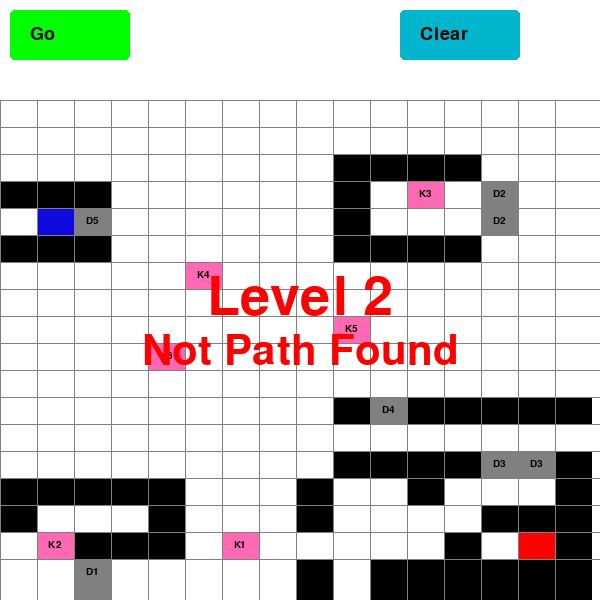
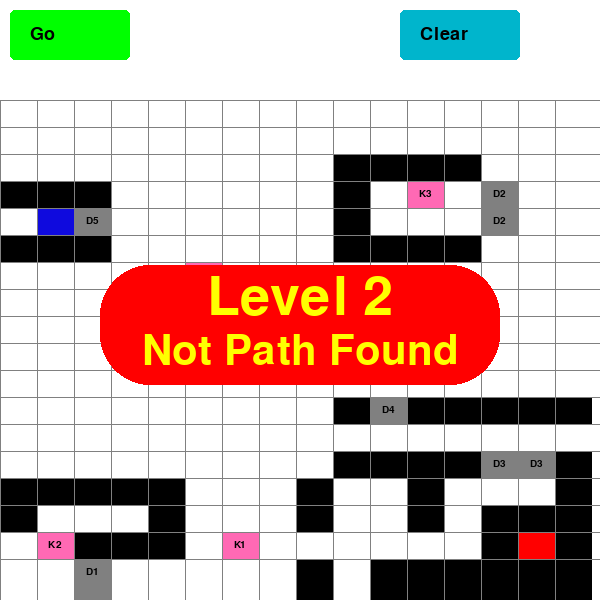
draw complete

Changed region(s): [[0.15, 0.42, 0.84, 0.66], [0.66, 0.84, 0.87, 0.93]]

diff --git a/level3.py b/level3.py
@@ -20,12 +20,16 @@ IRISBLUE = (0, 181, 204)
 PINK = (255, 105, 180)
 LIGHTGREEN = (208,242,136)
 LIGHTPUR = (255,245,194)
+ERROR_TEXT = (161,3,76)
+ERROR_AREA_COLOR = (120, 124, 198)
 
 window = pygame.display.set_mode((WIDTH, HEIGHT))
 pygame.display.set_caption("Move your step")
 font = pygame.font.Font('freesansbold.ttf', 18)
 tile_font = pygame.font.Font('freesansbold.ttf', 10)
 fill_area_rect = pygame.Rect(0, 100, WIDTH, HEIGHT-100)
+Error_area = pygame.Rect(WIDTH // 4-50, HEIGHT//2 -35, 400, 120)
+
 class Button:
     def __init__(self, x, y, text, click):
         self.x = x
@@ -258,6 +262,41 @@ def read_grid_from_file(file):
                 
     return row, column, max_floor, grid
 
+# export to file png (heatmap)  
+def save_heatmap_image(file_path, grid, floor):
+    colors = [[[node.color for node in row] for row in grid[i]] for i in range(floor)]
+    plt.imshow(colors, cmap='viridis', interpolation='nearest')
+    plt.colorbar()
+    plt.savefig(file_path)
+    plt.show()
+
+#export screen image 
+def export_screen(grid,row,col,width,height,floor,file_num):
+    for i in range(floor):
+        capture_surface = pygame.Surface((WIDTH, HEIGHT))
+        capture_surface.fill(WHITE)
+        pygame.draw.rect(capture_surface, WHITE, fill_area_rect)
+        draw_update(capture_surface,grid,row,col,width,height,i)
+        pygame.image.save(capture_surface, "./output/level3/output"+str(file_num)+"_level3_floor"+str(i+1)+".png")
+
+#pop up "Not Path Found" if agent does not find path
+def draw_no_path_message(window,file_path):
+    pygame.draw.rect(window,RED, Error_area,0,50)
+    font1 = pygame.font.Font('freesansbold.ttf', 54)
+    text = font1.render('Level 3', True, YELLOW)
+    text_rect = text.get_rect(center=(WIDTH // 2, HEIGHT // 2))
+    font2 = pygame.font.Font('freesansbold.ttf', 42)
+    text_level = font2.render('Not Path Found', True, YELLOW)
+    text_level_rect = text_level.get_rect(center=(WIDTH // 2, HEIGHT // 2+54))
+    window.blit(text, text_rect)
+    window.blit(text_level, text_level_rect)
+    
+    pygame.display.update()
+    pygame.time.delay(2000)
+    
+    # Save the screen with the pop-up message
+    pygame.image.save(window, file_path)
+
 def make_grid_color(row, col, width, height, grid,floor):
     grid_color = []
     start = None
@@ -307,6 +346,18 @@ def draw_grid_line(window, rows, cols, width, height):
     
     pygame.draw.line(window, GREY, (cols * gap2, 100), (cols * gap2, height+100))
 
+def update_floor_text(window,floor):
+    font_size =54
+    font_top = pygame.font.Font('freesansbold.ttf', font_size)
+    text_surface = font_top.render("Floor"+str(floor+1), True, PINK)
+    text_rect = text_surface.get_rect()
+    text_rect.centerx = WIDTH // 2
+    text_rect.y = 20 
+    window.fill(WHITE, text_rect)
+    # Blit the text surface onto the screen
+    window.blit(text_surface, text_rect)
+    pygame.display.flip()
+
 def draw_update(window, grid, rows, cols, width, height,cur_floor): 
     for i in grid[cur_floor]:
         for node in i:
@@ -315,9 +366,9 @@ def draw_update(window, grid, rows, cols, width, height,cur_floor):
             if(node.text == "UP"):
                 node.set_UP()
             node.draw(window,cur_floor)
-            
     draw_grid_line(window, rows, cols, width, height)
-    pygame.display.update()
+    update_floor_text(window,cur_floor)
+    
 
 def draw_solution(come, current,row, col, width, height, start, grid,floor):
     path = {}
@@ -335,6 +386,7 @@ def draw_solution(come, current,row, col, width, height, start, grid,floor):
         start = path[start]
         start.set_path_color()
         draw_update(window,grid,row, col, width, height,start.get_floor())
+        
 
 def heuristic(start, end, start_floor, end_floor):
     x1, y1 = start.get_pos()
@@ -478,6 +530,7 @@ def recursive (row, col, width, height, grid, start, end, goal_list, all_keys,fl
 
 def main(window, width, height):
     file = './input/level3/input1-level3.txt'
+    file_num = file[20]
     row, col, floor, temp_grid = read_grid_from_file(file)
     grid, start, end = make_grid_color(row,col,width,height,temp_grid,floor)
     goal_list = []
@@ -494,8 +547,8 @@ def main(window, width, height):
     while run:
         window.fill(WHITE)
         
-        astar_button = Button(10, 10, "Go", click1)
-        clear_button = Button(400, 10, "Clear", click4)
+        astar_button = Button(10, 20, "Go", click1)
+        clear_button = Button(450, 20, "Clear", click4)
         if(done == False):
             draw_update(window,grid,row,col,width,height,current_floor)
         else:
@@ -549,7 +602,9 @@ def main(window, width, height):
                     done = True
                     end.set_start_color()
                     draw_update(window,grid,row,col,width,height,end.get_floor())
-          
+                    export_screen(grid,row,col,width,height,floor,file_num)
+                else:
+                    draw_no_path_message(window,"./output/level3/output"+str(file_num)+"_level3_NotFound.png")
         if(not pygame.mouse.get_pressed()[0]) and not one_press:
             one_press = True
              

diff --git a/level1.py b/level1.py
@@ -22,6 +22,7 @@ IRISBLUE = (0,181,204)
 window = pygame.display.set_mode((WIDTH,HEIGHT))
 pygame.display.set_caption("Move your step")
 font = pygame.font.Font('freesansbold.ttf',18)
+Error_area = pygame.Rect(WIDTH // 4-50, HEIGHT//2 -35, 400, 120)
 
 # draw button to click algorithm
 class Button:
@@ -365,14 +366,16 @@ def save_heatmap_image(file_path, grid):
     plt.show()
 
 def draw_no_path_message(window,file_path):
+    pygame.draw.rect(window,RED, Error_area,0,50)
     font1 = pygame.font.Font('freesansbold.ttf', 54)
-    text = font1.render('Level 1', True, RED)
+    text = font1.render('Level 1', True, YELLOW)
     text_rect = text.get_rect(center=(WIDTH // 2, HEIGHT // 2))
     font2 = pygame.font.Font('freesansbold.ttf', 42)
-    text_level = font2.render('Not Path Found', True, RED)
+    text_level = font2.render('Not Path Found', True, YELLOW)
     text_level_rect = text_level.get_rect(center=(WIDTH // 2, HEIGHT // 2+54))
     window.blit(text, text_rect)
     window.blit(text_level, text_level_rect)
+    
     pygame.display.update()
     pygame.time.delay(2000)
     
@@ -382,7 +385,7 @@ def draw_no_path_message(window,file_path):
     
 
 def main(window, width, height):
-    file = './input/level1/input2-level1.txt'
+    file = './input/level1/input1-level1.txt'
     file_num = file[20]
     row, col,floor, temp_grid = read_grid_from_file(file)
     grid,start,end = make_grid_color(row,col,width,height,temp_grid)
@@ -465,7 +468,6 @@ def main(window, width, height):
                     check_path_ucs=ucs_algorithm(lambda: draw_update(window, grid, row, col,width,height), grid, start, end)
                     if(check_path_ucs):
                         pygame.image.save(window, "./output/level1/output"+str(file_num)+"_level1__ucs_screen.png")
-                        save_heatmap_image("./output/level1/output"+str(file_num)+"_level1_ucs_heatmap.png",grid)
                     else:
                         draw_no_path_message(window,"./output/level1/output"+str(file_num)+"_level1_NotFound.png")
                     
@@ -475,7 +477,6 @@ def main(window, width, height):
                     check_path_bfs=bfs_algorithm(lambda: draw_update(window, grid, row, col,width,height), grid, start, end)
                     if(check_path_bfs):
                         pygame.image.save(window, "./output/level1/output"+str(file_num)+"_level1__bfs_screen.png")
-                        save_heatmap_image("./output/level1/output"+str(file_num)+"_level1_bfs_heatmap.png",grid)
                     else:
                         draw_no_path_message(window,"./output/level1/output"+str(file_num)+"_level1_NotFound.png")
                     

diff --git a/level2.py b/level2.py
@@ -22,6 +22,7 @@ window = pygame.display.set_mode((WIDTH, HEIGHT))
 pygame.display.set_caption("Move your step")
 font = pygame.font.Font('freesansbold.ttf', 18)
 tile_font = pygame.font.Font('freesansbold.ttf', 10)
+Error_area = pygame.Rect(WIDTH // 4-50, HEIGHT//2 -35, 400, 120)
 
 class Button:
     def __init__(self, x, y, text, click):
@@ -185,14 +186,16 @@ def save_heatmap_image(file_path, grid):
 
 #pop up "Not Path Found" if agent does not find path
 def draw_no_path_message(window,file_path):
+    pygame.draw.rect(window,RED, Error_area,0,50)
     font1 = pygame.font.Font('freesansbold.ttf', 54)
-    text = font1.render('Level 2', True, RED)
+    text = font1.render('Level 2', True, YELLOW)
     text_rect = text.get_rect(center=(WIDTH // 2, HEIGHT // 2))
     font2 = pygame.font.Font('freesansbold.ttf', 42)
-    text_level = font2.render('Not Path Found', True, RED)
+    text_level = font2.render('Not Path Found', True, YELLOW)
     text_level_rect = text_level.get_rect(center=(WIDTH // 2, HEIGHT // 2+54))
     window.blit(text, text_rect)
     window.blit(text_level, text_level_rect)
+    
     pygame.display.update()
     pygame.time.delay(2000)
     
@@ -480,7 +483,6 @@ def main(window, width, height):
                         print (i.text, end = " ")    
                     astar_algorithm_with_checkpoints(lambda: draw_update(window, grid, row, col, width, height), grid, goal_list, collected_key)
                     pygame.image.save(window, "./output/level2/output"+str(file_num)+"_level2_screen.png")
-                    save_heatmap_image("./output/level2/output"+str(file_num)+"_level2_heatmap.png",grid)
                 else:
                     draw_no_path_message(window,"./output/level2/output"+str(file_num)+"_level2_NotFound.png")
         if(not pygame.mouse.get_pressed()[0]) and not one_press:
